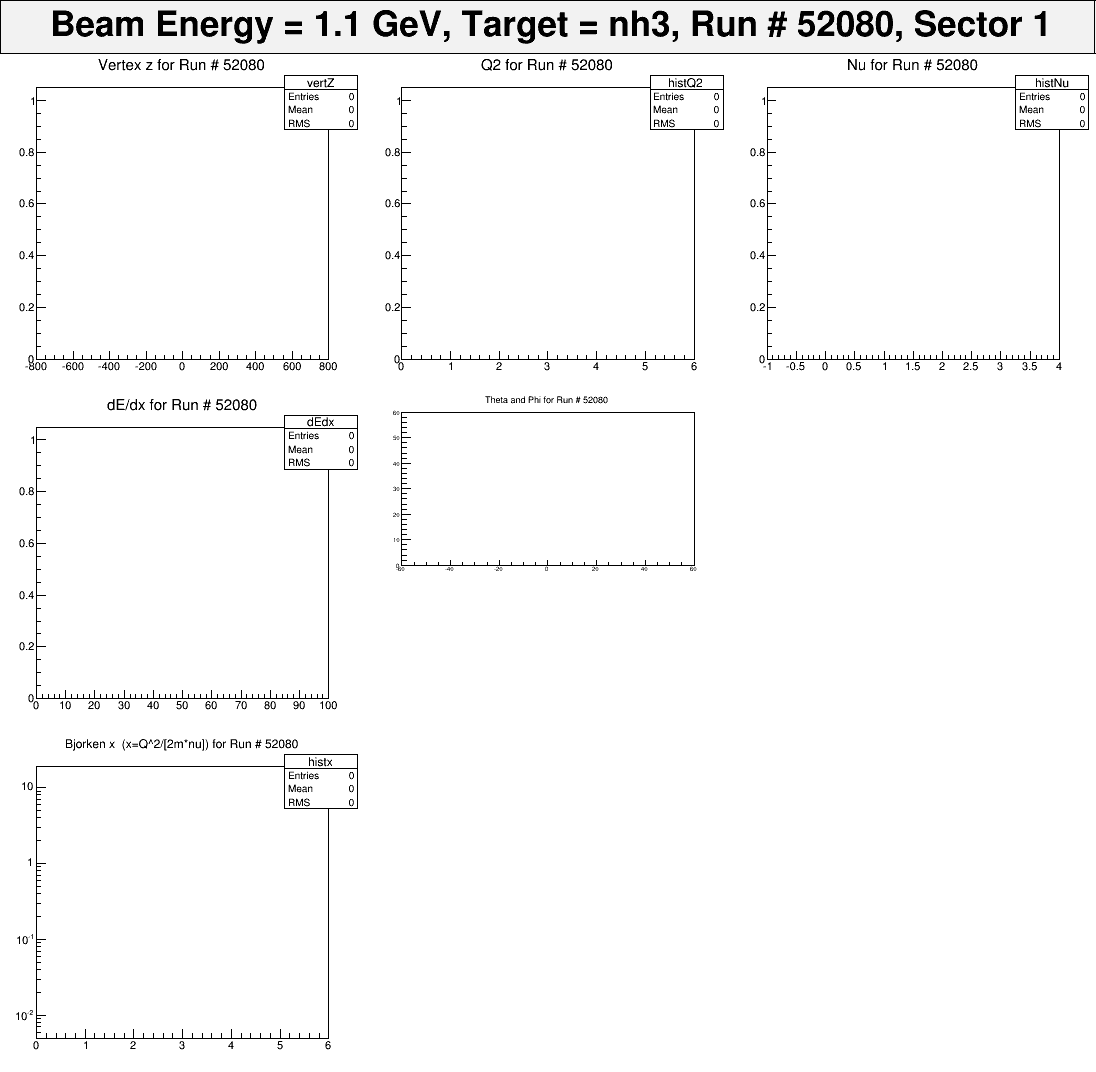
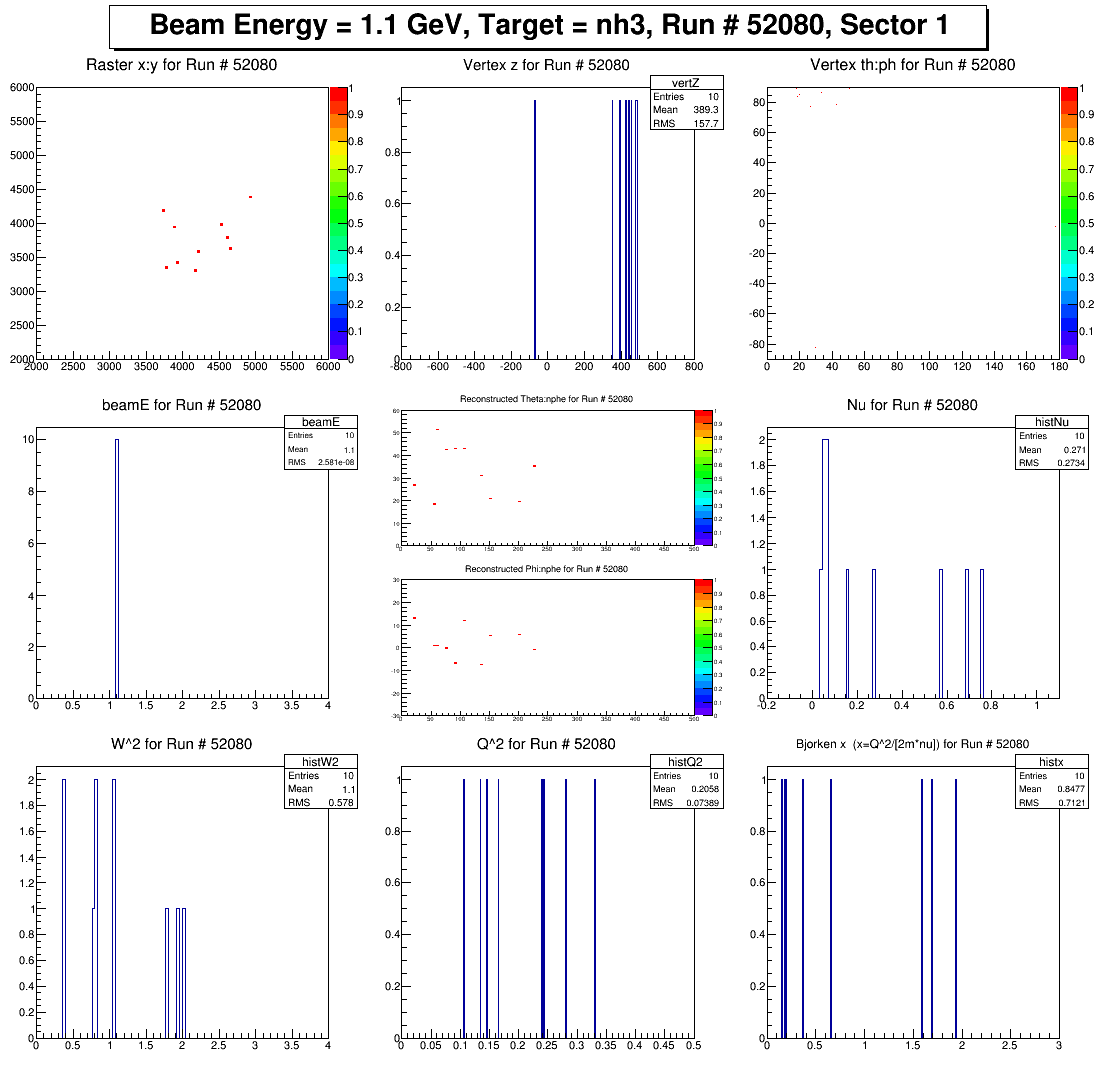
First working version of run_check.cpp

diff --git a/run_check.cpp b/run_check.cpp
@@ -35,7 +35,13 @@ void run_check(){
 		cin >> checkAll;
 
 	}
-	else {e_beam=1.1; target="nh3"; checkAll="y"; maxSector = 2;}
+	else 
+	{
+		e_beam=1.1; 
+		target="nh3"; 
+		checkAll="y"; 
+//		maxSector = 2;
+	}
 
 	if (e_beam==1.1) {e_beamStr = "1p1gev/";}
 	else if (e_beam==1.3) {e_beamStr = "1p3gev/";}
@@ -85,7 +91,7 @@ void run_check(){
 void check_run(int runNumber, double e_beam, TString targetStr, TString target, TString filePrefix, int sector, bool debug)
 {
 	cout << "vvvvvvvvvvvvvvvvvvvvvvvvvvvvvvvvvvvvvvvvvvvvvvvvvvvvvvvvvvvvvvvvvvvvvvvvv" << endl;
-	cout << "Running check_run for Run # " << runNumber << "..." << endl;
+	cout << "Running check_run for Run # " << runNumber << ", Sector " << sector << "..." << endl;
 	TString fileName;
 	TChain* chain = new TChain("h10");
 	bool fileExists = false;
@@ -143,8 +149,8 @@ void check_run(int runNumber, double e_beam, TString targetStr, TString target, 
 		pad2  =  new  TPad("pad2","pad2",0.3333,0.6333,0.6666,0.9500,0,0,0);
 		pad3  =  new  TPad("pad3","pad3",0.6666,0.6333,1.0000,0.9500,0,0,0);
 		pad4  =  new  TPad("pad4","pad4",0.0000,0.3166,0.3333,0.6333,0,0,0);
-		pad5a =  new  TPad("pad5a","pad5a",0.3333,0.4549,0.6666,0.6333,0,0,0);
-		pad5b =  new  TPad("pad5b","pad5b",0.3333,0.3166,0.6666,0.4549,0,0,0);
+		pad5a =  new  TPad("pad5a","pad5a",0.3333,0.4749,0.6666,0.6333,0,0,0);
+		pad5b =  new  TPad("pad5b","pad5b",0.3333,0.3166,0.6666,0.4749,0,0,0);
 		pad6  =  new  TPad("pad6","pad6",0.6666,0.3166,1.0000,0.6333,0,0,0);
 		pad7  =  new  TPad("pad7","pad7",0.0000,0.0000,0.3333,0.3166,0,0,0);
 		pad8  =  new  TPad("pad8","pad8",0.3333,0.0000,0.6666,0.3166,0,0,0);
@@ -155,66 +161,115 @@ void check_run(int runNumber, double e_beam, TString targetStr, TString target, 
 
 	
 		pad0->cd();
-		TPaveLabel *titleBox = new TPaveLabel(0,0,1,1,title);
+		TPaveLabel *titleBox = new TPaveLabel(0.1,0.1,0.9,0.9,title);
 		titleBox->Draw();
+		titleBox->SetFillColor(kWhite);
 		pad0->Update();
 
 		pad1->cd();
+		TString titleRaster = "Raster x:y for Run # ";
+		titleRaster += runNumber;
+		cout << "Drawing " << titleRaster << "..."  << endl;
+		chain->Draw("raster_x:raster_y>>raster(100,2000,6000,100,2000,6000)", cuts, "");
+		raster->SetTitle(titleRaster);
+		raster->SetStats(kFALSE);
+		raster->Draw("COLZ");
+		pad1->Update();
+
+		pad2->cd();
 		TString titleTarget = "Vertex z for Run # ";
 		titleTarget += runNumber;
 		cout << "Drawing Vertex z..." << endl;
 		chain->Draw("dc_vz>>vertZ(400,-800,800)", cuts, "");
 		vertZ->SetTitle(titleTarget);
 		vertZ->Draw();
-		pad1->Update();
-
-		pad2->cd();
-		TString titleQ2 = "Q2 for Run # ";
-		titleQ2 += runNumber;
-		cout << "Drawing " << titleQ2 << "..." << endl;
-		TString drawQ2 = "4*";
-		drawQ2 += e_beam;
-		drawQ2 += "*p*(sin(dc_ccth*3.14159/180/2)^2)>>histQ2(400,0,6)";
-		chain->Draw(drawQ2, cuts, "");
-		histQ2->SetTitle(titleQ2);
-	//	histQ2->SetStats(kFALSE);
-		histQ2->Draw();
-		pad2->Update(); 
+		pad2->Update();
 
 		pad3->cd();
+		TString titleVThPh = "Vertex th:ph for Run # ";
+		titleVThPh += runNumber;
+		cout << "Drawing " << titleVThPh << "..." << endl;
+		chain->Draw("atan(dc_vx/dc_vy)*180/3.14159:acos(dc_vz/sqrt(dc_vx*dc_vx+dc_vy*dc_vy+dc_vz*dc_vz))*180/3.14159>>vThPh(300,0,180,300,-90,90)", cuts, "");
+		vThPh->SetTitle(titleVThPh);
+		vThPh->SetStats(kFALSE);
+		vThPh->Draw("COLZ");
+		pad3->Update();
+
+		pad4->cd();
+		TString titlebeamE = "beamE for Run # ";
+		titlebeamE += runNumber;
+		cout << "Drawing " << titlebeamE << "..." << endl;
+		TString drawbeamE = "";
+		drawbeamE += e_beam;
+		drawbeamE += ">>beamE(100,0,4)";
+		chain->Draw(drawbeamE, cuts, "");
+		beamE->SetTitle(titlebeamE);
+	//	beamE->SetStats(kFALSE);
+		beamE->Draw();
+		pad4->Update();
+
+		pad5a->cd();
+		TString titleRThNphe = "Reconstructed Theta:nphe for Run # ";
+		titleRThNphe += runNumber;
+		cout << "Drawing " << titleRThNphe << "..."  << endl;
+		chain->Draw("dc_ccth:nphe>>rThNphe(100,0,500,100,0,60)", cuts, "");
+		rThNphe->SetTitle(titleRThNphe);
+		rThNphe->SetStats(kFALSE);
+		rThNphe->Draw("COLZ");
+		pad5a->Update();
+
+		pad5b->cd();
+		TString titleRPhNphe = "Reconstructed Phi:nphe for Run # ";
+		titleRPhNphe += runNumber;
+		cout << "Drawing " << titleRPhNphe << "..."  << endl;
+		chain->Draw("dc_ccph:nphe>>rPhNphe(100,0,500,100,-30,30)", cuts, "");
+		rPhNphe->SetTitle(titleRPhNphe);
+		rPhNphe->SetStats(kFALSE);
+		rPhNphe->Draw("COLZ");
+		pad5b->Update();
+
+		pad6->cd();
 		TString titleNu = "Nu for Run # ";
 		titleNu += runNumber;
 		cout << "Drawing " << titleNu << "..." << endl;
 		TString drawNu = "";
 		drawNu += e_beam;
-		drawNu += "-p>>histNu(100,-1,4)";
+		drawNu += "-p>>histNu(100,-0.2,1.1)";
 		chain->Draw(drawNu, cuts, "");
 		histNu->SetTitle(titleNu);
 	//	histNu->SetStats(kFALSE);
 		histNu->Draw();
-		pad3->Update();
-
-		pad4->cd();
-		TString titledp = "dE/dx for Run # ";
-		titledp += runNumber;
-		cout << "Drawing " << titledp << "..." << endl;
-		chain->Draw("edep>>dEdx(400,0,100)", cuts, "");
-		dEdx->SetTitle(titledp);
-		dEdx->Draw();
-		pad4->Update();
-
-		pad5a->cd();
-		TString titleThetaPhi = "Theta and Phi for Run # ";
-		titleThetaPhi += runNumber;
-		cout << "Drawing " << titleThetaPhi << "..."  << endl;
-		chain->Draw("dc_ccth:dc_ccph>>thPh(100,-60,60,100,0,60)", cuts, "");
-		thPh->SetTitle(titleThetaPhi);
-		thPh->SetStats(kFALSE);
-		thPh->Draw("COLZ");
-		pad5a->Update();
+		pad6->Update();
 
 		pad7->cd();
-		pad7->SetLogy();
+		TString titleW2 = "W^2 for Run # ";
+		titleW2 += runNumber;
+		cout << "Drawing " << titleW2 << "..." << endl;
+		TString drawW2 = "0.938*0.938+2*0.938*(";
+		drawW2 += e_beam;
+		drawW2 += "-p)-4*";
+		drawW2 += e_beam;
+		drawW2 += "*p*(sin(dc_ccth*3.14159/180/2)^2)>>histW2(100,0,4)";
+		chain->Draw(drawW2, cuts, "");
+		histW2->SetTitle(titleW2);
+	//	histW2->SetStats(kFALSE);
+		histW2->Draw();
+		pad7->Update();
+
+		pad8->cd();
+		TString titleQ2 = "Q^2 for Run # ";
+		titleQ2 += runNumber;
+		cout << "Drawing " << titleQ2 << "..." << endl;
+		TString drawQ2 = "4*";
+		drawQ2 += e_beam;
+		drawQ2 += "*p*(sin(dc_ccth*3.14159/180/2)^2)>>histQ2(400,0,0.5)";
+		chain->Draw(drawQ2, cuts, "");
+		histQ2->SetTitle(titleQ2);
+		histQ2->Draw();
+		pad8->Update(); 
+
+		pad9->cd();
+//		pad9->SetLogy();
 		TString titlex = "Bjorken x ";
 		titlex += " (x=Q^2/[2m*nu]) for Run # ";
 		titlex += runNumber;
@@ -223,14 +278,13 @@ void check_run(int runNumber, double e_beam, TString targetStr, TString target, 
 		drawx += e_beam;
 		drawx += "*p*(sin(dc_ccth*3.14159/180/2)^2)/(2*0.938*(";
 		drawx += e_beam;
-		drawx += "-p))>>histx(400,0,6)";
-	//	TH1F *histx = new TH1F("histx",titlex,bins,xmin,xmax);
-	//	histx->Sumw2();
+		drawx += "-p))>>histx(400,0,3)";
 		chain->Draw(drawx, cuts, "");
 		histx->SetTitle(titlex);
 		histx->Draw();
-		pad7->Update();
-		
+		pad9->Update();
+
+	
 		TString imagename = "./Run_Checks/Run_Check_for_Sector_";
 		imagename += sector;
 		imagename += "_Run_";
@@ -239,6 +293,11 @@ void check_run(int runNumber, double e_beam, TString targetStr, TString target, 
 		c1->Print(imagename);
 	}
 	else {cout << "There is no file for Run # " << runNumber << endl;}
+
+	TString exitst;
+//	cout << "Are you ready to finish?" << endl;
+//	cin >> exitst;
+
 	
 	cout << "Finished check_run for Run # " << runNumber << "!" << endl;
 	cout << "^^^^^^^^^^^^^^^^^^^^^^^^^^^^^^^^^^^^^^^^^^^^^^^^^^^^^^^^^^^^^^^^^^^^^^^^^" << endl;
